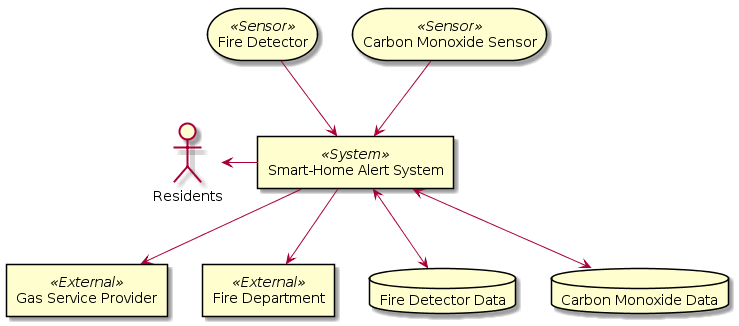
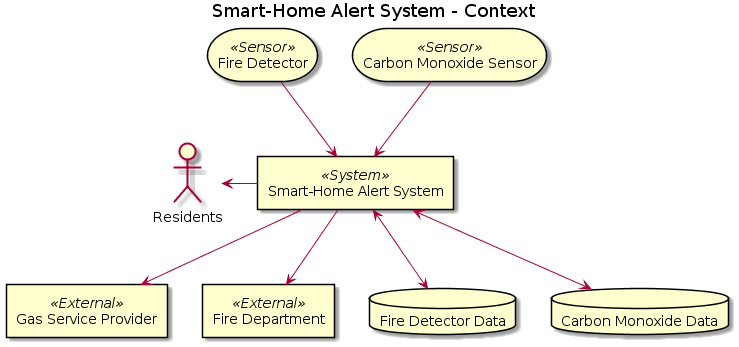
Added title to context diagram

diff --git a/03.Case_Study/01.Smart-Home_Alert_System.md b/03.Case_Study/01.Smart-Home_Alert_System.md
@@ -11,10 +11,7 @@ The carbon monoxide node is composed of a carbon monoxide sensor that monitors t
 
 The fire alarm node is composed of a temperature sensor and a flame sensor. The main purpose of this node is to monitor the room temperature and detect the presence of flames. The temperature and flame sensors monitor their associated physical variables. A detection of fire sends an alert to the corresponding authorities through a fire alarm web service. In addition to this notification, the fire alarm service also enunciates the event locally with a visual or sound alarm, depending on the location and activities of the residents.
 
-<center>
 [Context]
-**Smart-Home Alert System - Context**
-</center>
 
 ## Software Arquitecture
 
@@ -24,5 +21,4 @@ From the software specific perspective, the system is divided into 3 layers desc
 ## References
   [1] Jairo Ariza, Camilo Mendoza, Kelly Garcés, and Nicolás Cardozo. "A Research Agenda for IoT Adaptive Architectures". In: *SEAMS’18, May 2018, Gothenburg, Sweden*.
 
-## Images
   [Context]: https://github.com/AndesRafa/IoT_Challenge8/blob/master/03.Case_Study/01.Smart-Home_Alert_System_01.Context.png
